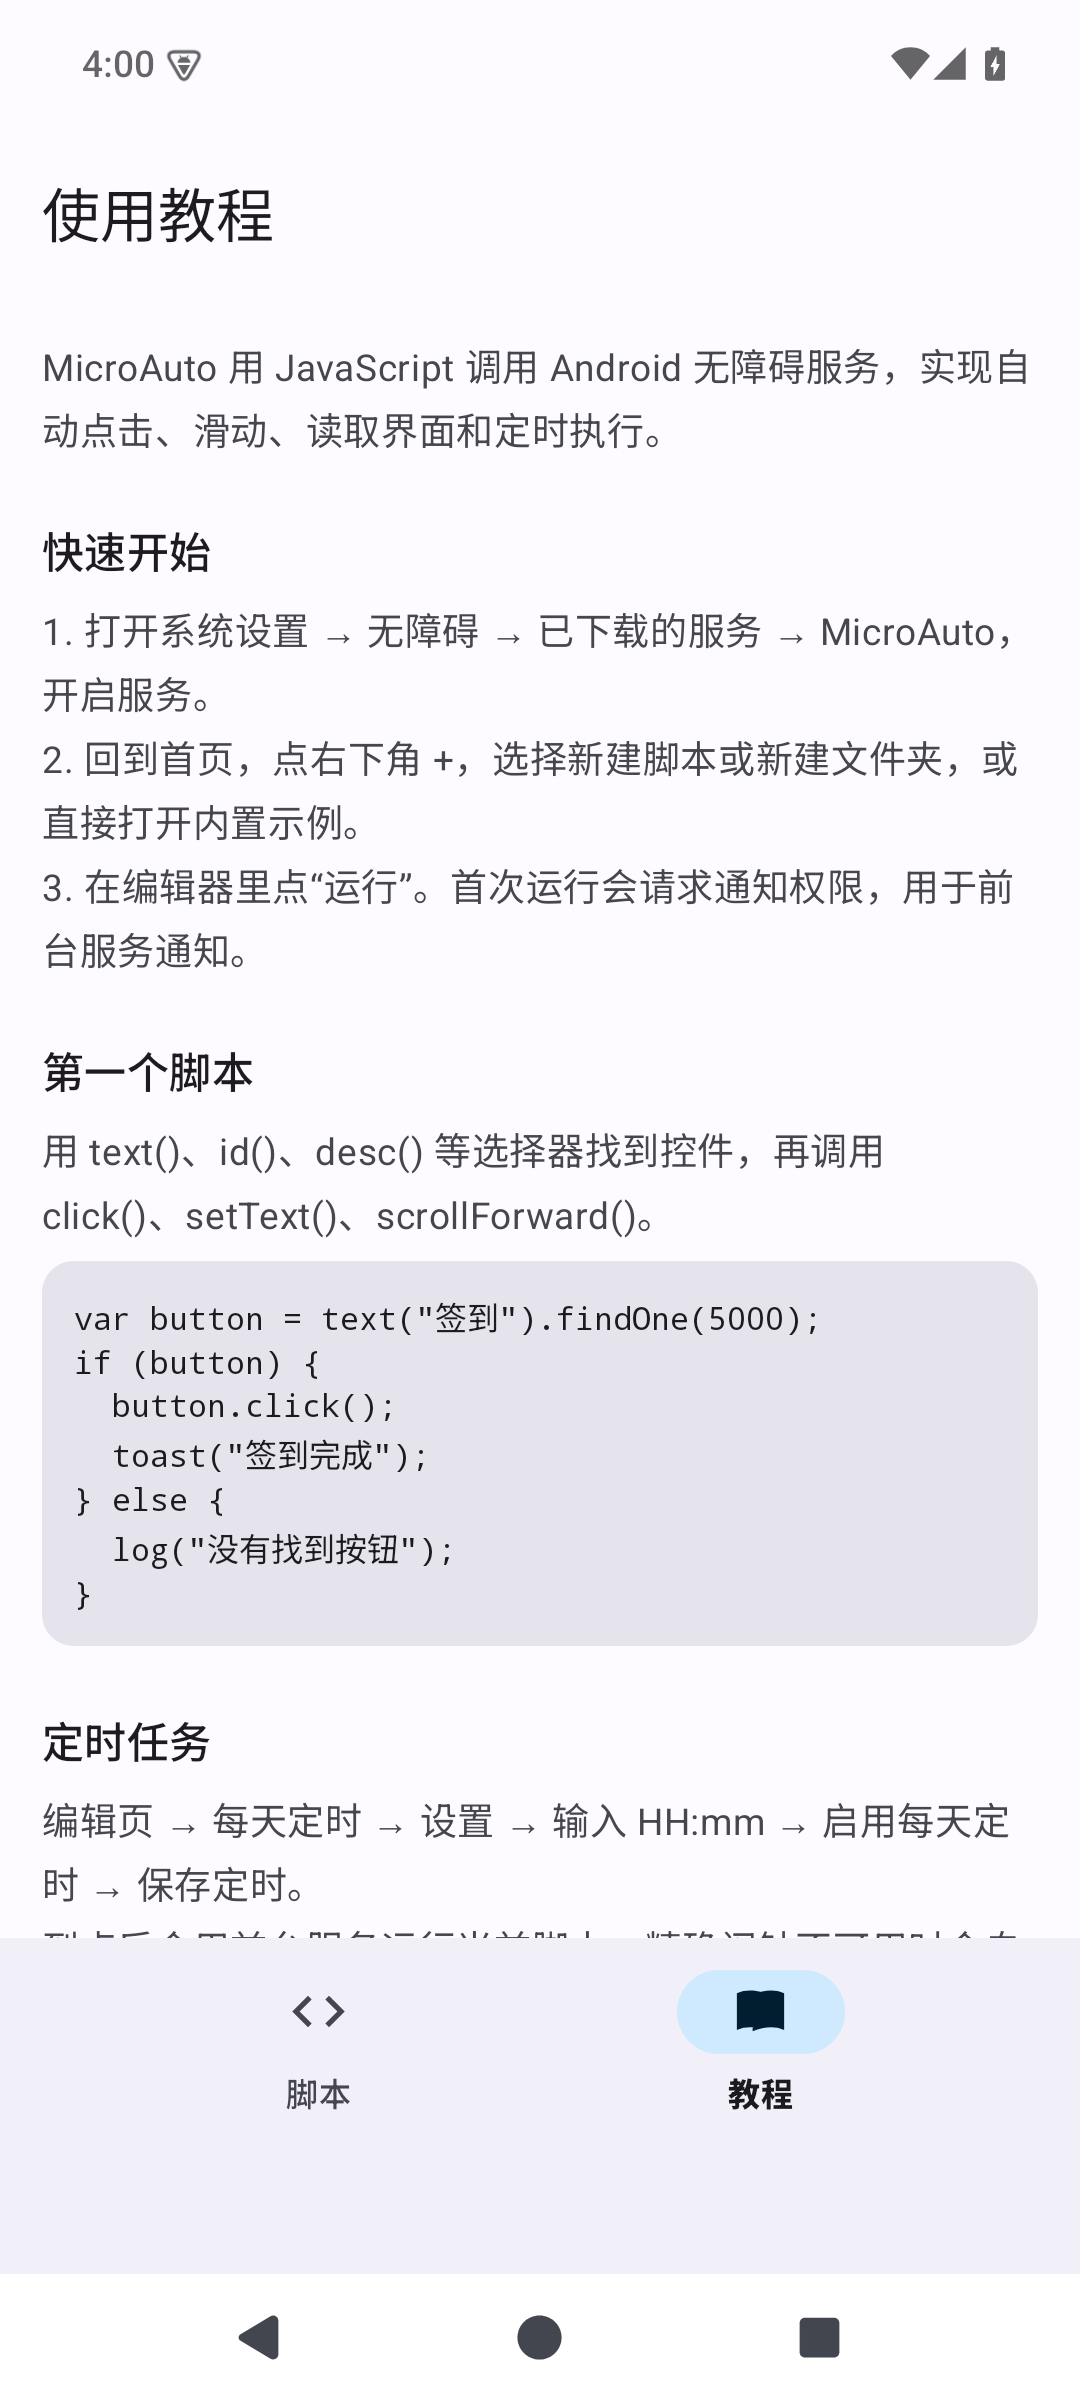
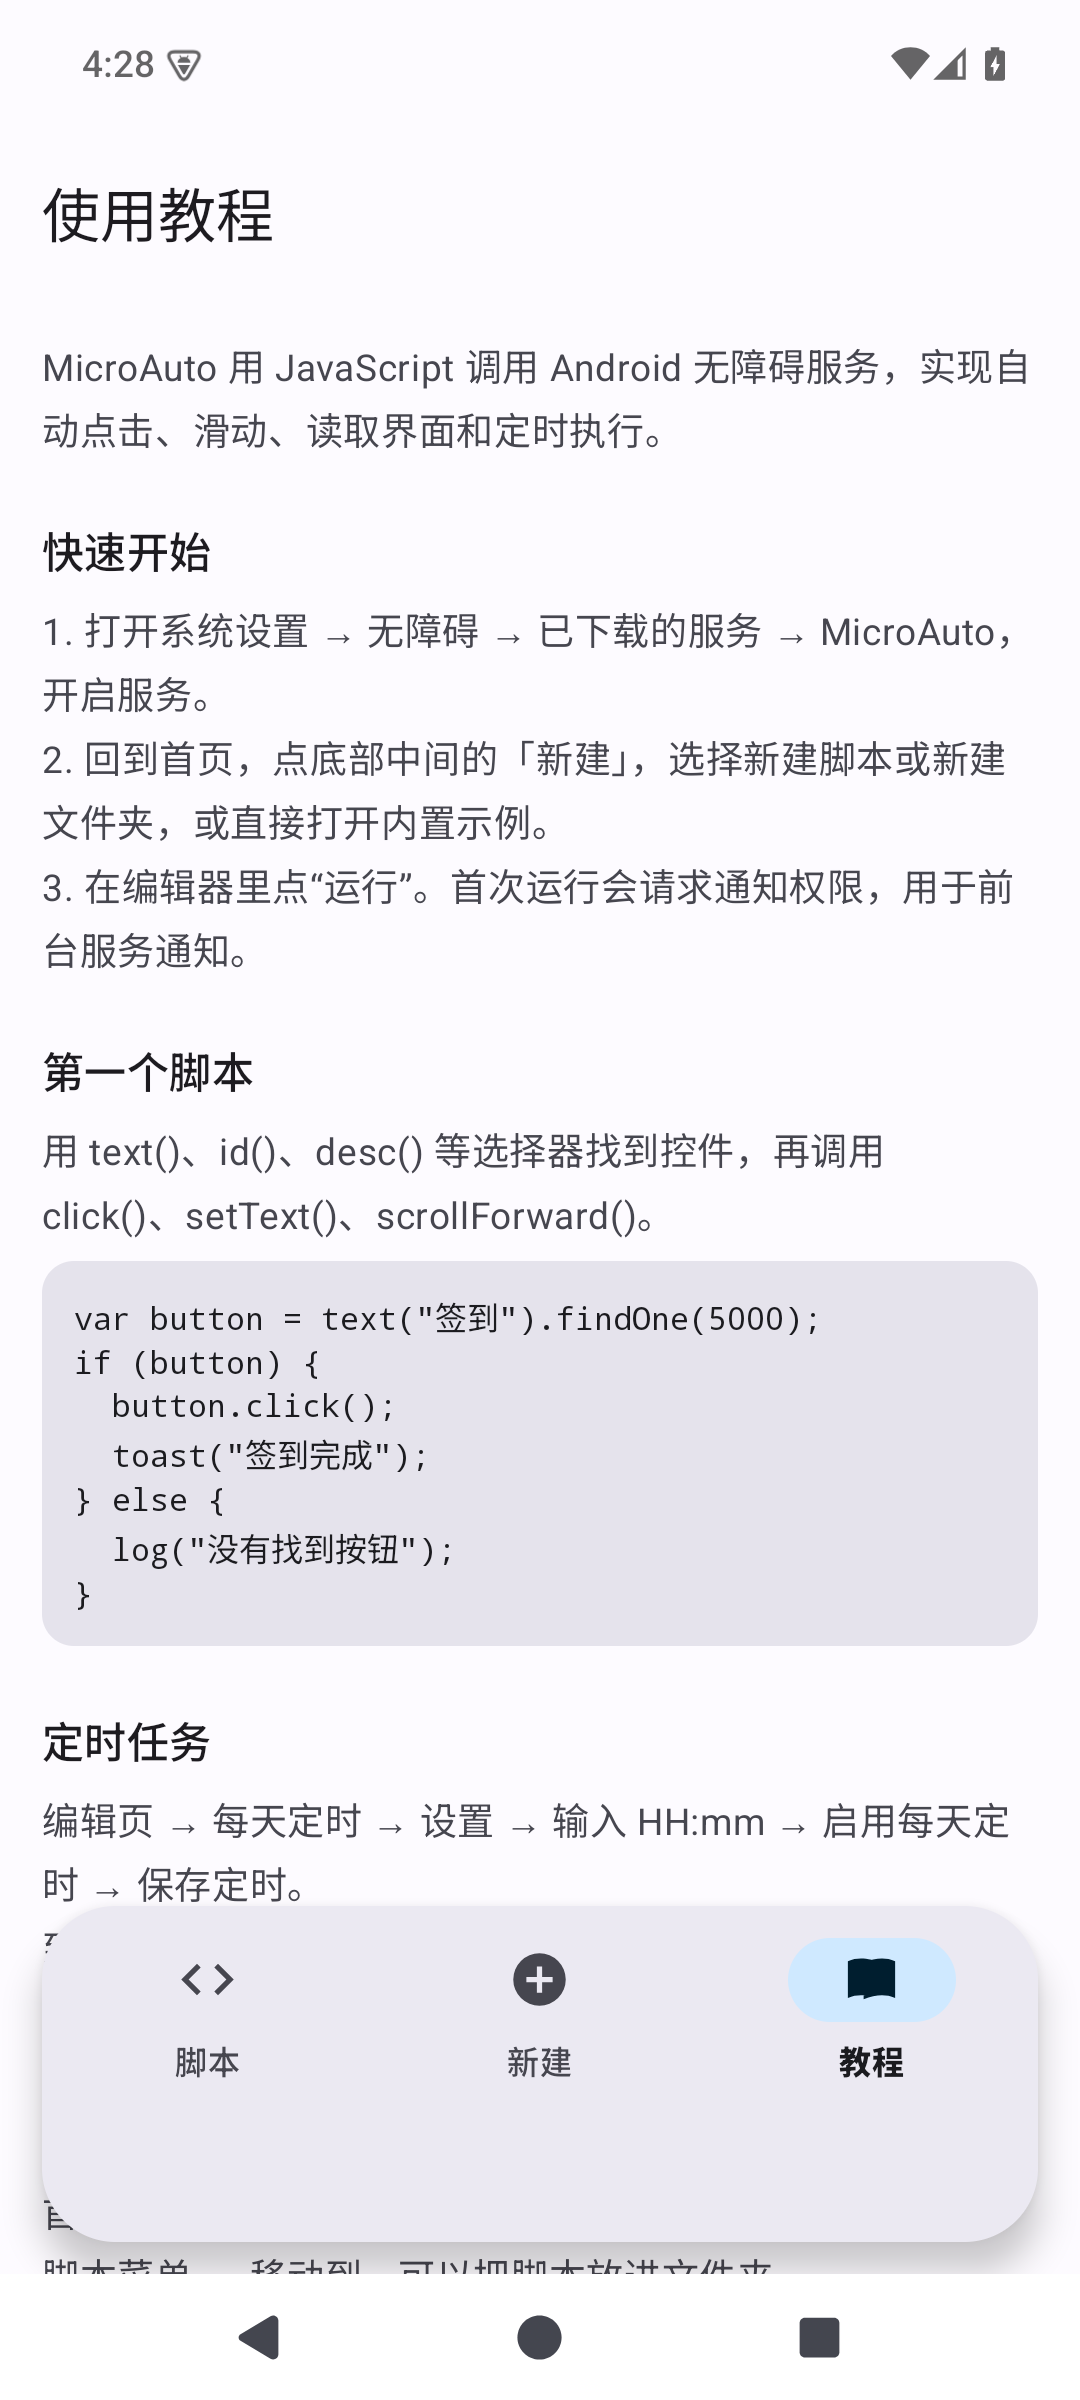
状态入口收进菜单，搜索框与底部导航改为悬浮圆角

diff --git a/app/src/main/java/com/microauto/ui/MainActivity.kt b/app/src/main/java/com/microauto/ui/MainActivity.kt
@@ -116,6 +116,26 @@ class MainActivity : AppCompatActivity() {
     private fun setupUi() {
         binding.toolbar.setOnMenuItemClickListener { item ->
             when (item.itemId) {
+                R.id.action_accessibility -> {
+                    openAccessibilitySettings()
+                    true
+                }
+
+                R.id.action_alarm -> {
+                    openExactAlarmSettings()
+                    true
+                }
+
+                R.id.action_battery -> {
+                    openBatterySettings()
+                    true
+                }
+
+                R.id.action_schedule -> {
+                    openScheduledScript()
+                    true
+                }
+
                 R.id.action_new_folder -> {
                     newFolder()
                     true
@@ -171,10 +191,6 @@ class MainActivity : AppCompatActivity() {
             importLauncher.launch(arrayOf("*/*"))
         }
         binding.btnEmptyFolder.setOnClickListener { newFolder() }
-        binding.chipAccessibility.setOnClickListener { openAccessibilitySettings() }
-        binding.chipAlarm.setOnClickListener { openExactAlarmSettings() }
-        binding.chipBattery.setOnClickListener { openBatterySettings() }
-        binding.chipSchedule.setOnClickListener { openScheduledScript() }
     }
 
     private fun showScriptsTab() {
@@ -258,12 +274,13 @@ class MainActivity : AppCompatActivity() {
     }
 
     private fun updateStatus() {
-        binding.chipAccessibility.text = if (AccessibilityUtils.isEnabled(this)) {
+        val menu = binding.toolbar.menu
+        menu.findItem(R.id.action_accessibility)?.title = if (AccessibilityUtils.isEnabled(this)) {
             "无障碍：已开启"
         } else {
             "无障碍：未开启"
         }
-        binding.chipAlarm.text = if (Build.VERSION.SDK_INT >= Build.VERSION_CODES.S) {
+        menu.findItem(R.id.action_alarm)?.title = if (Build.VERSION.SDK_INT >= Build.VERSION_CODES.S) {
             val manager = getSystemService(AlarmManager::class.java)
             if (manager != null && manager.canScheduleExactAlarms()) {
                 "精确闹钟：可用"
@@ -275,17 +292,18 @@ class MainActivity : AppCompatActivity() {
         }
         val powerManager = getSystemService(PowerManager::class.java)
         val ignoringBattery = powerManager?.isIgnoringBatteryOptimizations(packageName) == true
-        binding.chipBattery.text = if (ignoringBattery) {
+        menu.findItem(R.id.action_battery)?.title = if (ignoringBattery) {
             "省电：已允许"
         } else {
             "省电：未允许"
         }
         val scheduled = SchedulePrefs.scriptId(this)?.let { repository.find(it) }
-        binding.chipSchedule.text = if (SchedulePrefs.isEnabled(this) && scheduled != null) {
-            "定时 ${timeText()} · ${scheduled.name}"
-        } else {
-            "定时：未启用"
-        }
+        menu.findItem(R.id.action_schedule)?.title =
+            if (SchedulePrefs.isEnabled(this) && scheduled != null) {
+                "定时 ${timeText()} · ${scheduled.name}"
+            } else {
+                "定时：未启用"
+            }
     }
 
     private fun subtitle(meta: ScriptMeta): String {

diff --git a/app/src/androidTest/java/com/microauto/ui/MainActivityTest.kt b/app/src/androidTest/java/com/microauto/ui/MainActivityTest.kt
@@ -18,6 +18,7 @@ import com.microauto.R
 import com.microauto.TestData
 import com.microauto.script.BuiltinScripts
 import org.hamcrest.Matchers.allOf
+import org.hamcrest.Matchers.containsString
 import org.junit.Assert.assertEquals
 import org.junit.Before
 import org.junit.Test
@@ -32,16 +33,14 @@ class MainActivityTest {
     }
 
     @Test
-    fun showsToolbarChipsAndNav() {
+    fun showsToolbarAndNav() {
         ActivityScenario.launch(MainActivity::class.java).use {
             onView(withId(R.id.toolbar)).check(matches(isDisplayed()))
             onView(allOf(withText("脚本"), isDescendantOfA(withId(R.id.toolbar))))
                 .check(matches(isDisplayed()))
-            onView(withId(R.id.chipAccessibility)).check(matches(isDisplayed()))
-            onView(withId(R.id.chipAlarm)).check(matches(isDisplayed()))
-            onView(withId(R.id.chipBattery)).check(matches(isDisplayed()))
-            onView(withId(R.id.chipSchedule)).check(matches(isDisplayed()))
             onView(withId(R.id.bottomNav)).check(matches(isDisplayed()))
+            openActionBarOverflowOrOptionsMenu(ApplicationProvider.getApplicationContext())
+            onView(withText(containsString("无障碍"))).check(matches(isDisplayed()))
         }
     }
 

diff --git a/README.md b/README.md
@@ -19,7 +19,7 @@
 - 脚本版本管理：发布快照（可写备注）、查看历史、恢复、删除
 - 每天固定时间定时执行（同一时间绑定一个脚本，精确闹钟不可用时自动降级）
 - 前台服务运行、开机恢复定时
-- Material 3 界面：品牌配色取自图标（靛蓝 `#4338CA` + 天蓝 `#0EA5E9`）、浅色/深色主题、edge-to-edge、底部导航（脚本 / 新建 / 教程）、脚本名称搜索、脚本卡片、状态 chips、定时底部 sheet
+- Material 3 界面：品牌配色取自图标（靛蓝 `#4338CA` + 天蓝 `#0EA5E9`）、浅色/深色主题、edge-to-edge、底部悬浮圆角导航（脚本 / 新建 / 教程）、圆角搜索框、脚本卡片、右上角权限菜单、定时底部 sheet
 
 ## 构建
 
@@ -97,9 +97,9 @@ $ANDROID_HOME/build-tools/35.0.0/apksigner verify --print-certs \
 ## 使用
 
 1. 安装 APK，打开 MicroAuto。
-2. 点顶部「无障碍」状态 chip，在系统设置中开启「MicroAuto 自动化服务」。Android 13+ 侧载应用如果开关是灰的，先到应用信息里允许「受限设置」。
-3. 点顶部「省电」状态 chip，把 MicroAuto 设为不受电池优化限制；并在系统设置里允许自启动（国产 ROM）。
-4. 点顶部「精确闹钟」状态 chip 授予权限（Android 12+），否则定时可能被系统延后。
+2. 点右上角菜单里的「无障碍」，在系统设置中开启「MicroAuto 自动化服务」。Android 13+ 侧载应用如果开关是灰的，先到应用信息里允许「受限设置」。
+3. 点右上角菜单里的「省电」，把 MicroAuto 设为不受电池优化限制；并在系统设置里允许自启动（国产 ROM）。
+4. 点右上角菜单里的「精确闹钟」授予权限（Android 12+），否则定时可能被系统延后。
 5. 点底部导航中间的「新建」，选择「新建脚本」或「新建文件夹」；也可以点右上角菜单 →「导入脚本」从文件选择器导入 `.js` / `.txt` 文件。
 6. 点脚本卡片进入编辑页，保存后运行。
 7. 需要定时签到：在编辑页点「设置」，选择时间并启用，保存定时。
